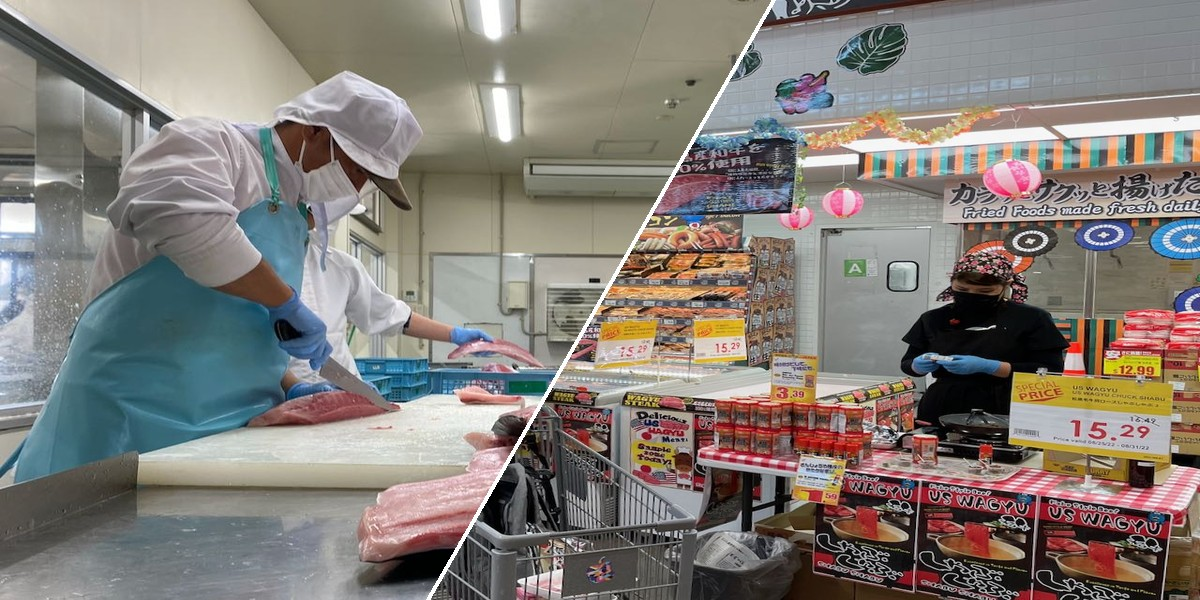
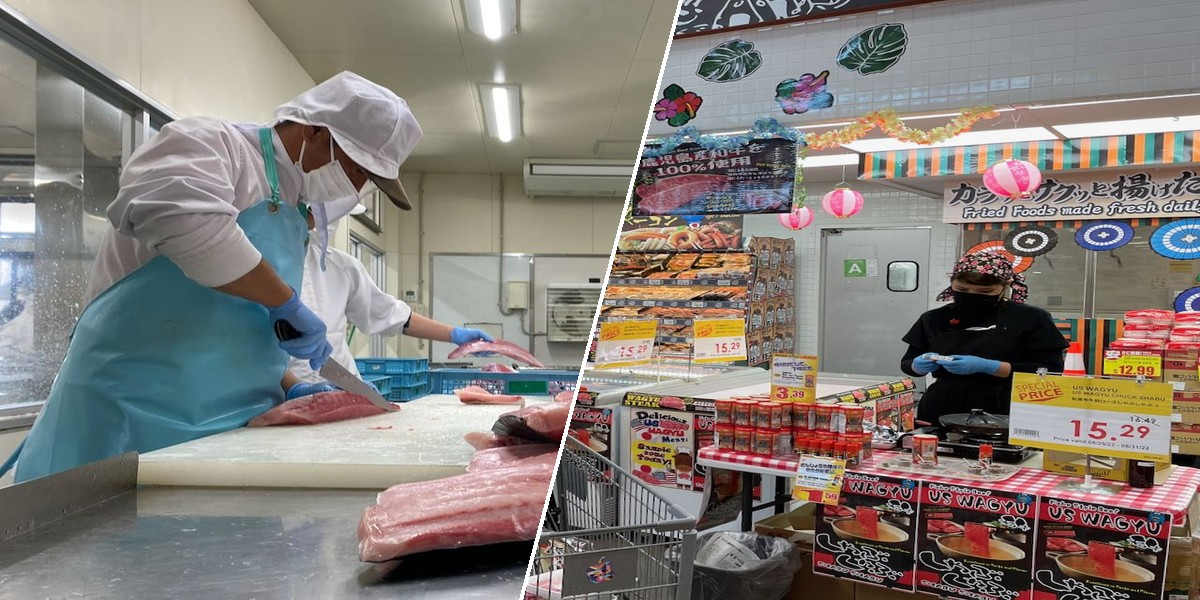
チームカードの箇条書きを削除、実務力画像の角度を15度に変更

Changed region(s): [[0.3392, 0.54, 0.4933, 1.0], [0.4933, 0.0, 0.6475, 0.48], [0.4933, 0.51, 0.5242, 0.54]]

diff --git a/index.html b/index.html
@@ -263,7 +263,7 @@
                 <div class="service-card fade-in" data-delay="150">
                     <img src="strengths_report.png" alt="強みを活かして地域のチームを動かす" class="service-card-img">
                     <h3>「強み」を活かして、地域のチームを動かす</h3>
-                    <p>現場で難しいのは、人間関係とチームづくり。限られた人数で成果を出すには、一人ひとりの「強み」を活かし合える関係をつくることが鍵になります。<br><br>Gallup認定ストレングスコーチとして、個人の資質を言語化し、チームの力に変えるプログラムを提供。国内大手メーカーのマネジメントのワークショップも実施。「分析して終わり」ではなく、事業の推進力に直結する支援ができます。<br><br>・個人の資質を見える化し、互いの強みを掛け合わせるチームへ<br>・現場を知るコーチだから、机上論ではないアドバイスができる<br>・強みへのフォーカスが、自発性と突破力を生む</p>
+                    <p>現場で難しいのは、人間関係とチームづくり。限られた人数で成果を出すには、一人ひとりの「強み」を活かし合える関係をつくることが鍵になります。<br><br>Gallup認定ストレングスコーチとして、個人の資質を言語化し、チームの力に変えるプログラムを提供。国内大手メーカーのマネジメントのワークショップも実施。「分析して終わり」ではなく、事業の推進力に直結する支援ができます。</p>
                     <div class="service-tags">
                         <span class="service-tag">Gallup認定ストレングスコーチ</span>
                         <span class="service-tag">チームビルディング</span>

diff --git a/index_new.html b/index_new.html
@@ -263,7 +263,7 @@
                 <div class="service-card fade-in" data-delay="150">
                     <img src="strengths_report.png" alt="強みを活かして地域のチームを動かす" class="service-card-img">
                     <h3>「強み」を活かして、地域のチームを動かす</h3>
-                    <p>現場で難しいのは、人間関係とチームづくり。限られた人数で成果を出すには、一人ひとりの「強み」を活かし合える関係をつくることが鍵になります。<br><br>Gallup認定ストレングスコーチとして、個人の資質を言語化し、チームの力に変えるプログラムを提供。国内大手メーカーのマネジメントのワークショップも実施。「分析して終わり」ではなく、事業の推進力に直結する支援ができます。<br><br>・個人の資質を見える化し、互いの強みを掛け合わせるチームへ<br>・現場を知るコーチだから、机上論ではないアドバイスができる<br>・強みへのフォーカスが、自発性と突破力を生む</p>
+                    <p>現場で難しいのは、人間関係とチームづくり。限られた人数で成果を出すには、一人ひとりの「強み」を活かし合える関係をつくることが鍵になります。<br><br>Gallup認定ストレングスコーチとして、個人の資質を言語化し、チームの力に変えるプログラムを提供。国内大手メーカーのマネジメントのワークショップも実施。「分析して終わり」ではなく、事業の推進力に直結する支援ができます。</p>
                     <div class="service-tags">
                         <span class="service-tag">Gallup認定ストレングスコーチ</span>
                         <span class="service-tag">チームビルディング</span>
